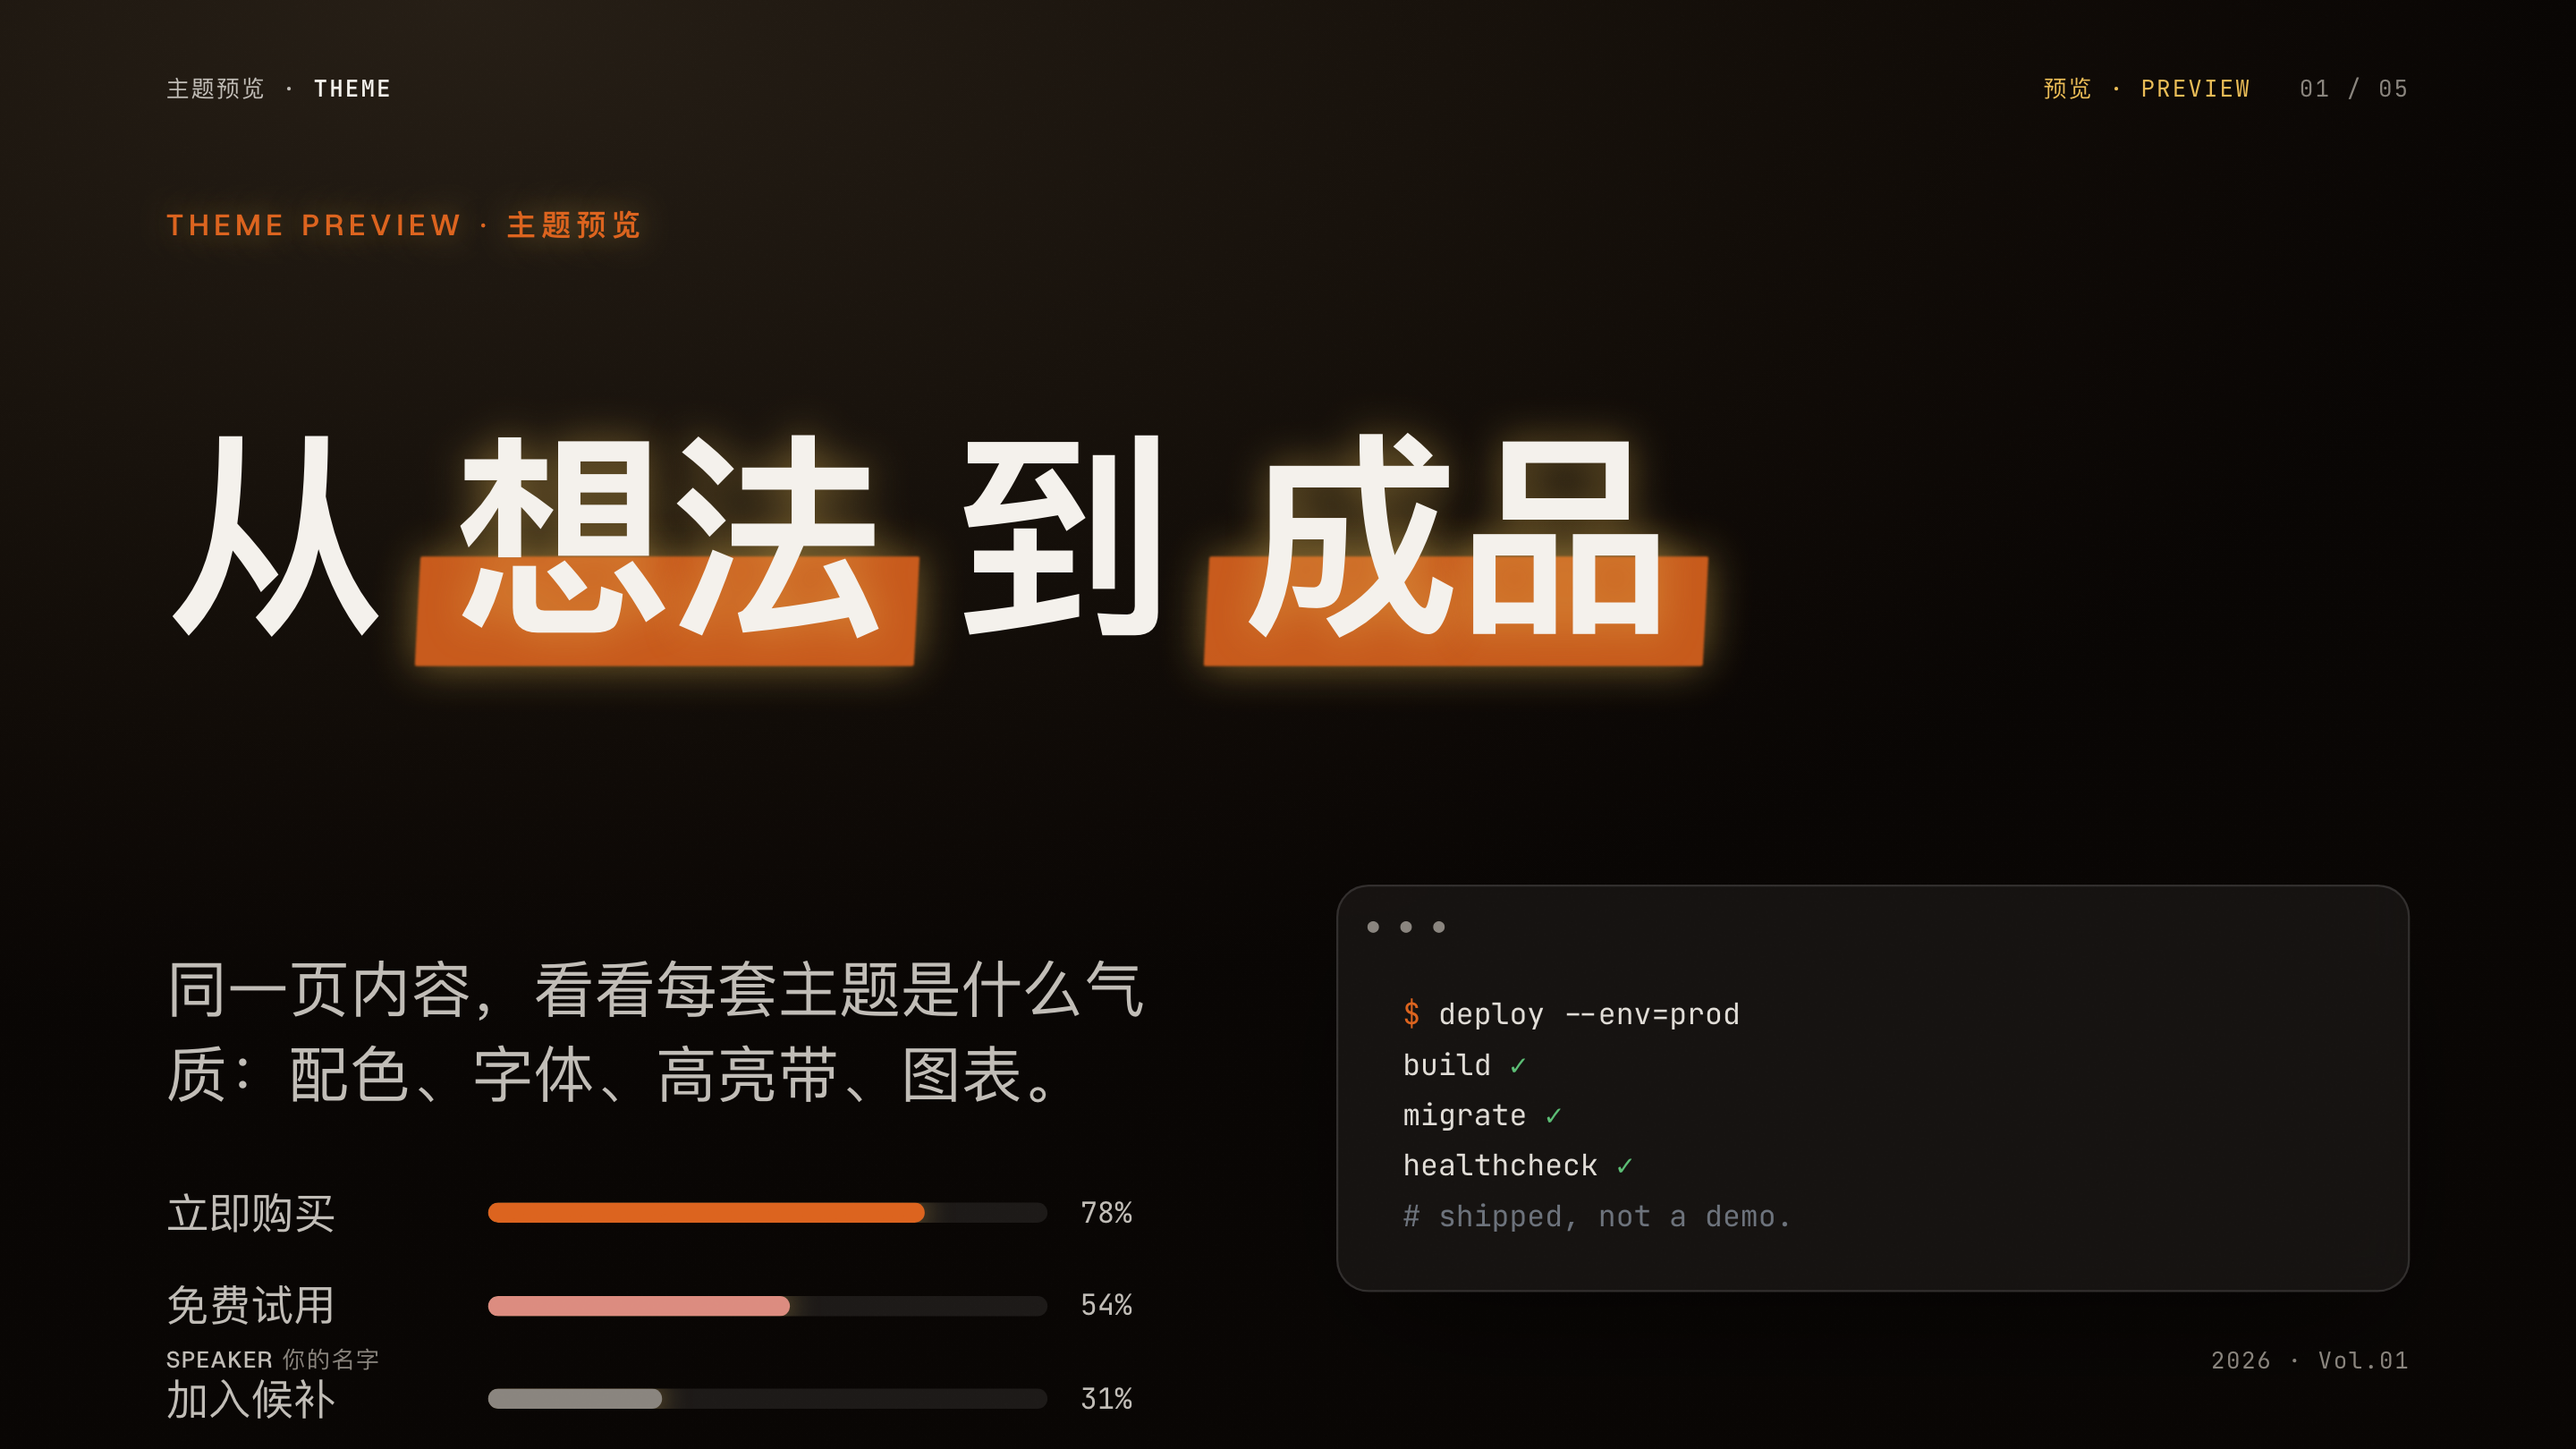
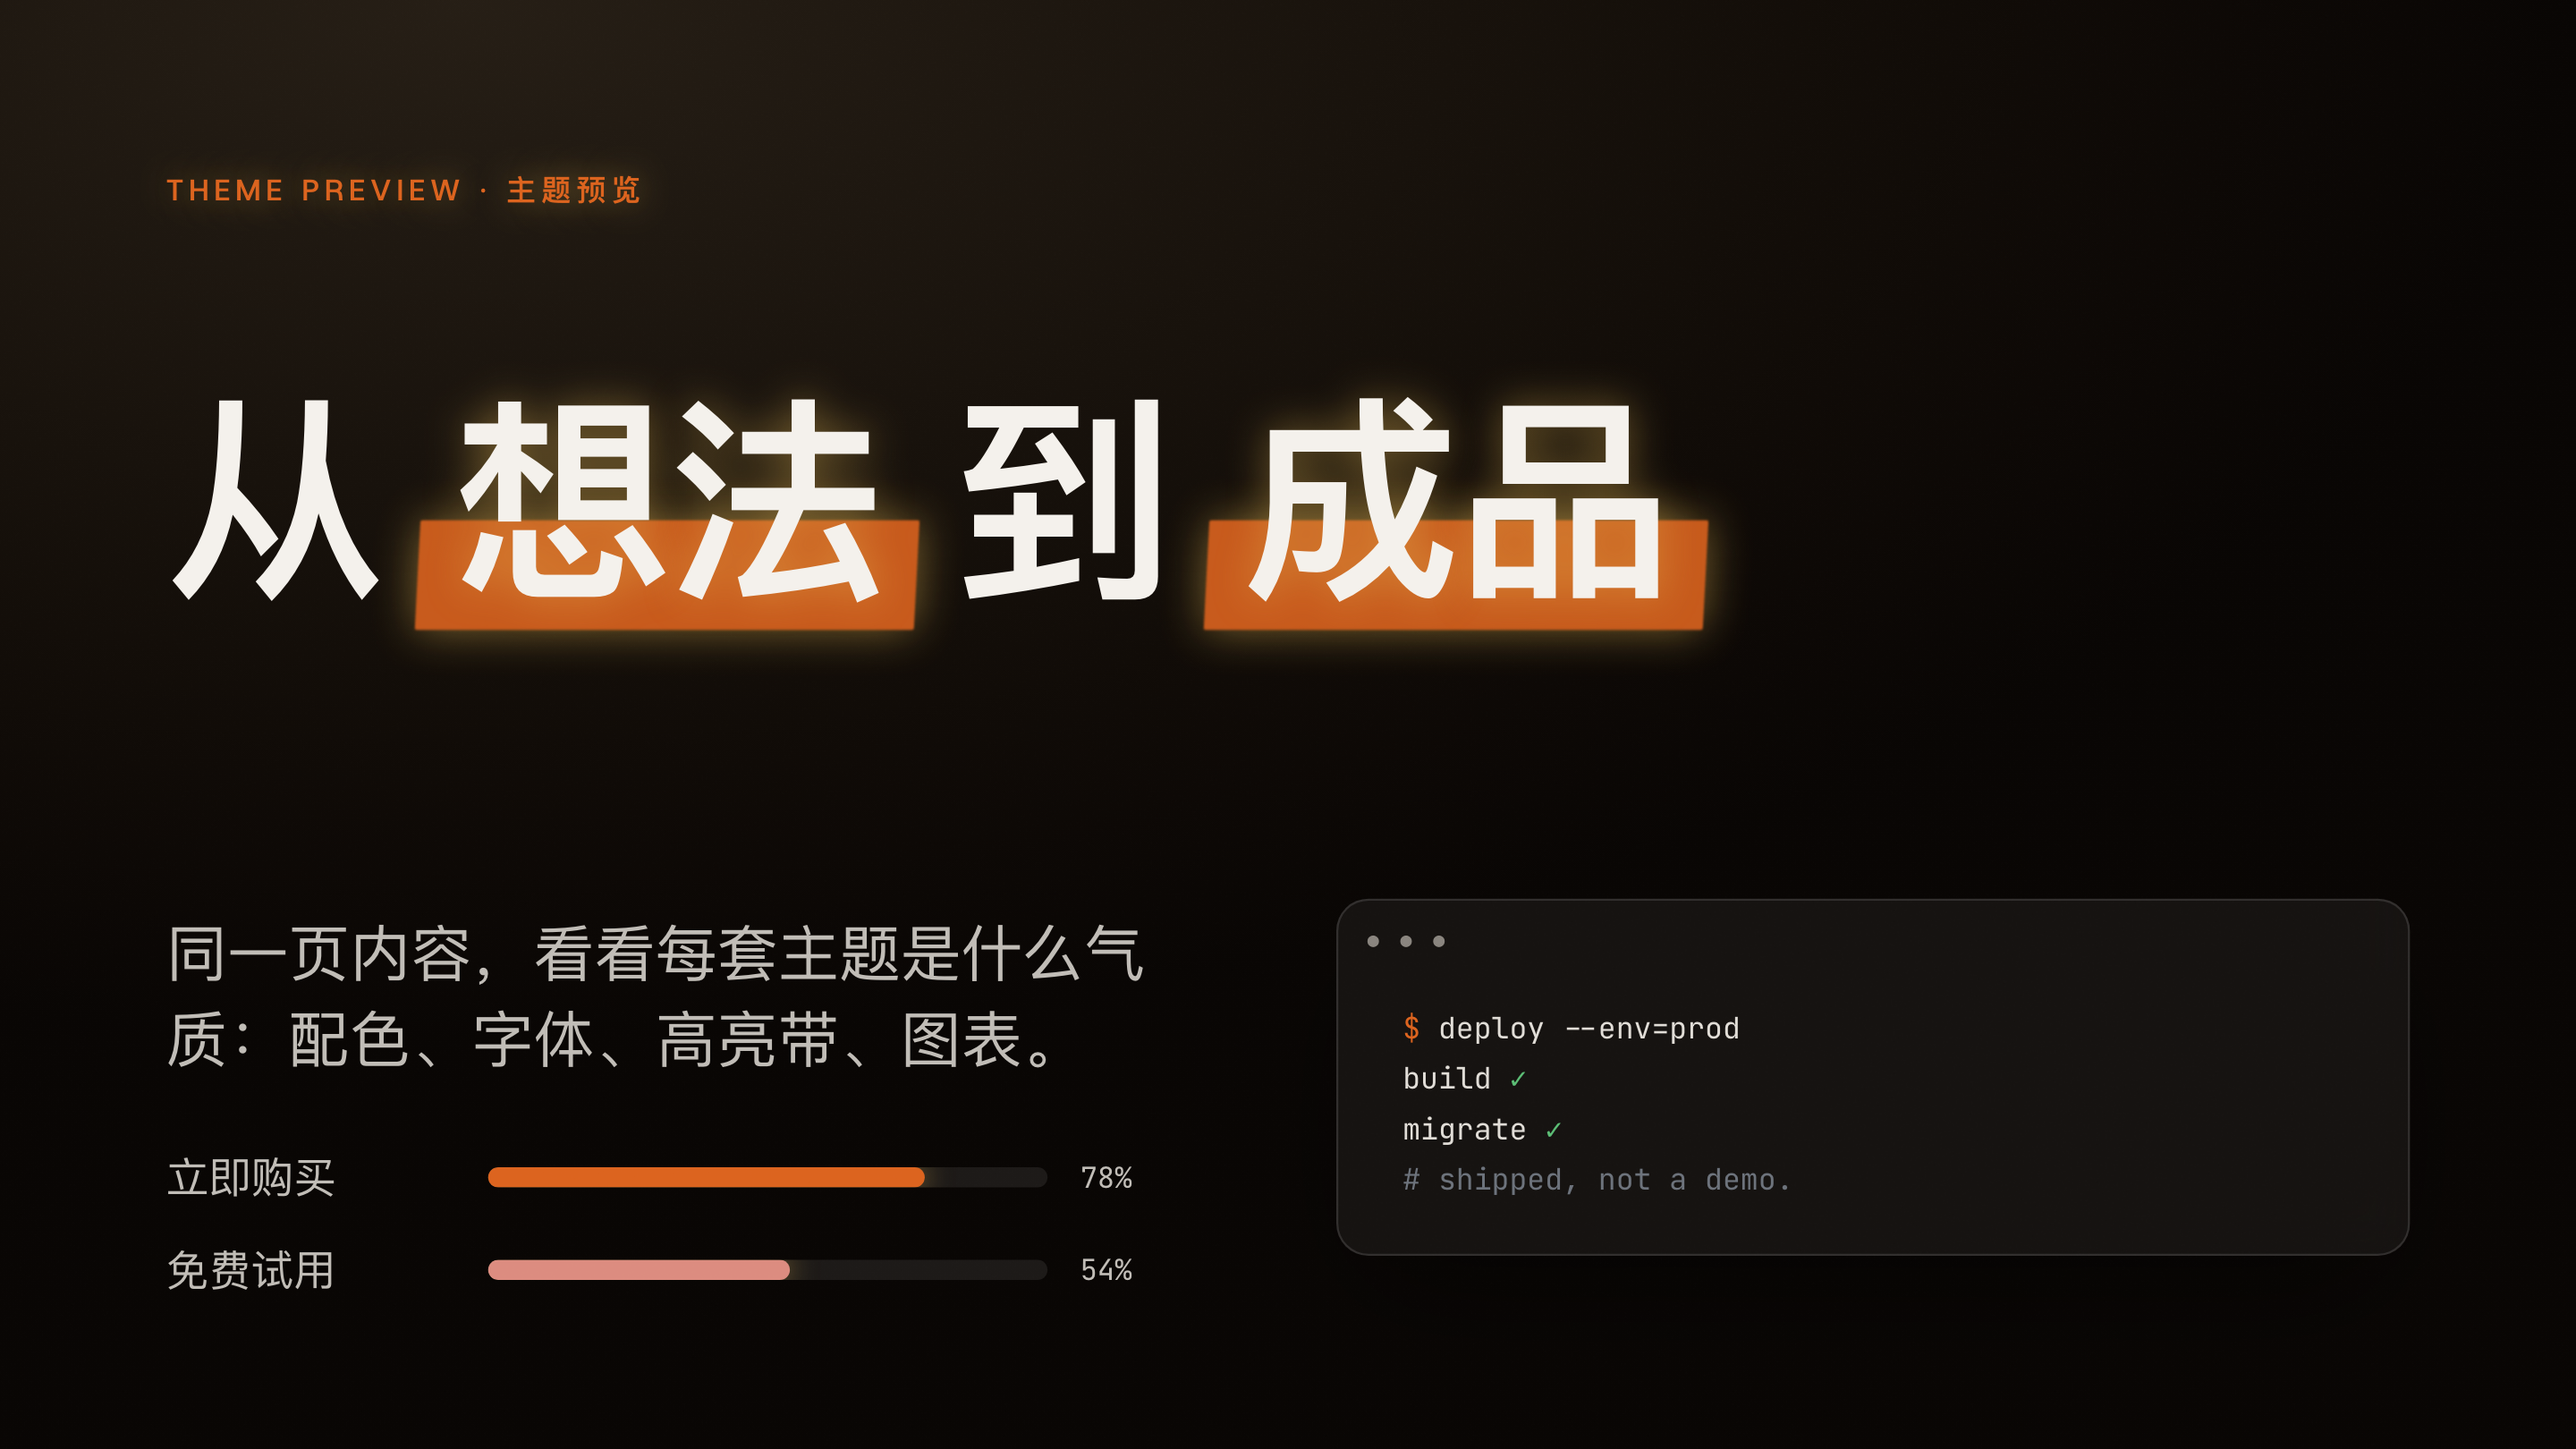
fix(ppt): 主题预览去掉幻灯片顶/脚 chrome + 收紧内容(居中/2条形) — 标准16:9完整预览不被裁切; 重生成画廊

diff --git a/skills/ameng-ppt-design/templates/theme-preview.html b/skills/ameng-ppt-design/templates/theme-preview.html
@@ -59,31 +59,24 @@
     </div>
   </div>
 
-  <div class="deck deck--chrome" data-grain>
+  <!-- 标准 16:9 舞台；不加 deck--chrome（预览不需要顶/脚栏，避免占高导致下方被裁切） -->
+  <div class="deck" data-grain>
     <div class="deck__stage">
-      <div class="chrome-top">
-        <span class="chrome-top__brand">主题预览 · <b>THEME</b></span>
-        <span class="chrome-top__meta"><span class="chrome-top__sec">预览 · PREVIEW</span><span class="chrome-top__page">01 / 05</span></span>
-      </div>
-      <div class="chrome-foot"><span><b>SPEAKER</b> 你的名字</span><span class="mono">2026 · Vol.01</span></div>
-
-      <section class="slide is-active" data-section="预览 · PREVIEW" data-accent="ember">
+      <section class="slide is-active center" data-section="预览 · PREVIEW" data-accent="ember">
         <span class="eyebrow" data-anim="fade">THEME PREVIEW · 主题预览</span>
         <h2 class="zh-mega" data-anim="rise">从 <span class="hl">想法</span> 到 <span class="hl">成品</span></h2>
-        <div class="grid-2 fill" style="--gap:var(--s-7);align-items:start;margin-top:var(--s-5)">
+        <div class="grid-2 fill" style="--gap:var(--s-7);align-items:center;margin-top:var(--s-5)">
           <div class="stack" style="--gap:var(--s-5)">
             <p class="lead">同一页内容，看看每套主题是什么气质：配色、字体、高亮带、图表。</p>
             <div class="bars" style="max-width:30rem">
               <div class="bar"><span class="body">立即购买</span><div class="bar__track"><div class="bar__fill" style="--v:78%"></div></div><span class="bar__val">78%</span></div>
               <div class="bar"><span class="body">免费试用</span><div class="bar__track"><div class="bar__fill" style="--v:54%;background:var(--accent-2)"></div></div><span class="bar__val">54%</span></div>
-              <div class="bar"><span class="body">加入候补</span><div class="bar__track"><div class="bar__fill" style="--v:31%;background:var(--ink-3)"></div></div><span class="bar__val">31%</span></div>
             </div>
           </div>
           <div class="terminal" data-anim="rise">
             <div class="cmd">deploy --env=prod</div>
             <div class="ok">build</div>
             <div class="ok">migrate</div>
-            <div class="ok">healthcheck</div>
             <div class="comment"># shipped, not a demo.</div>
           </div>
         </div>
